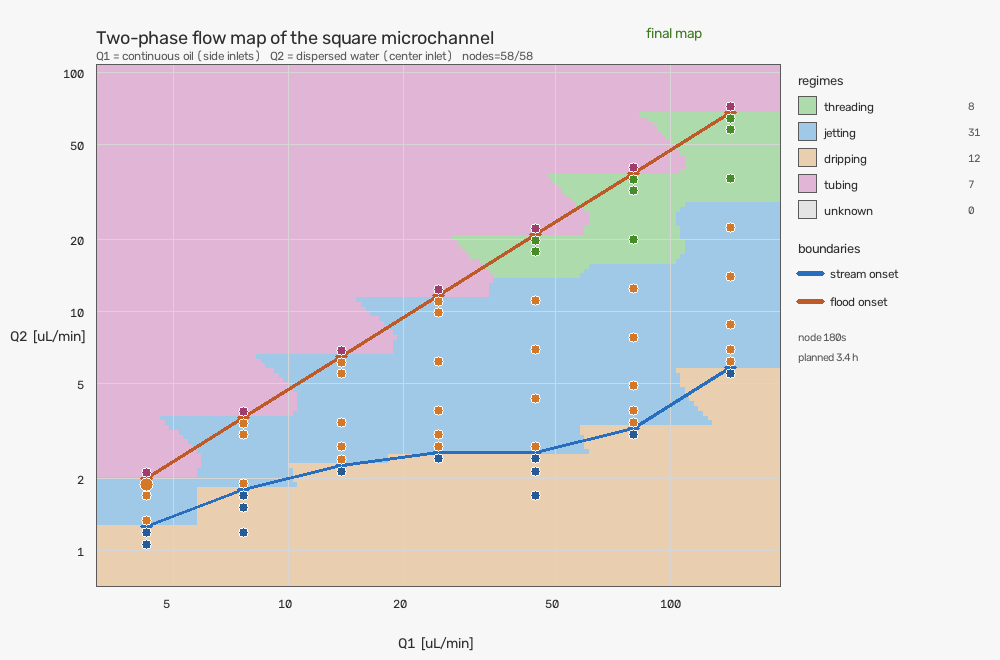
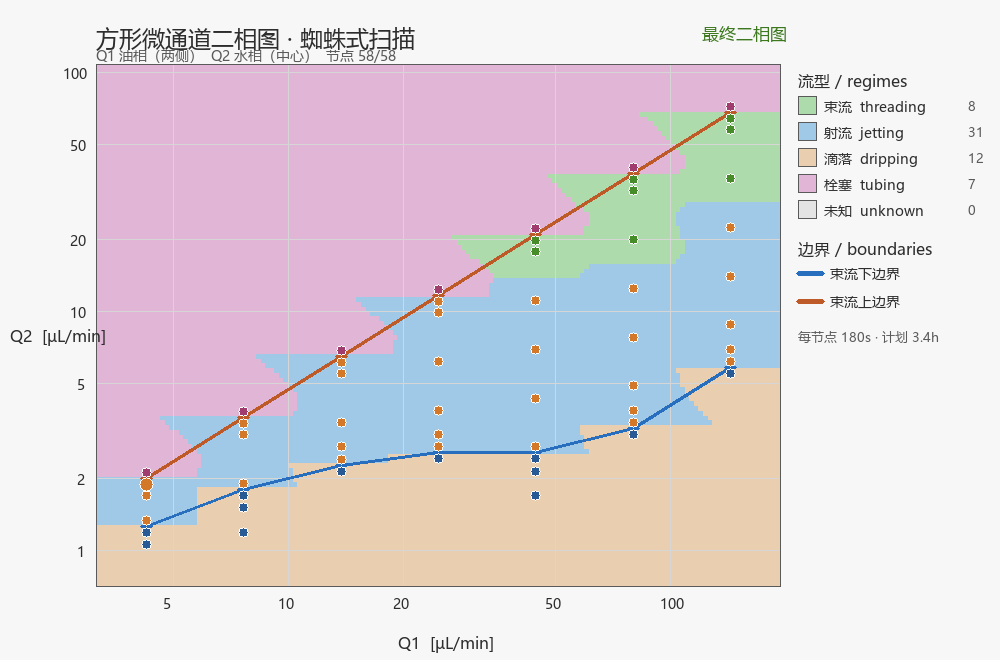
docs: render Chinese labels in phase-diagram examples (Pillow available)

diff --git a/README.md b/README.md
@@ -148,7 +148,7 @@ pump.close()
 - `phase_diagram.gif`：每测一个节点画一帧，流型区域按已测节点做最近邻填充，边界逐条出现，最后定格在完整二相图（可循环播放）；
 - `phase_diagram_final.png`：最终静态图。
 
-渲染只依赖 OpenCV（numpy），GIF 由内置纯 Python GIF89a 编码器写出，不需要 matplotlib/Pillow/ffmpeg。
+渲染只依赖 OpenCV（numpy），GIF 由内置纯 Python GIF89a 编码器写出，不需要 matplotlib/Pillow/ffmpeg。若环境里恰好装有 Pillow，会额外用系统中文字体（如 `msyh.ttc`）渲染中文标签；没有 Pillow 时自动回退为英文标签，不影响成图与动画生成。
 
 ## 与文献的关系（流型判据）
 
